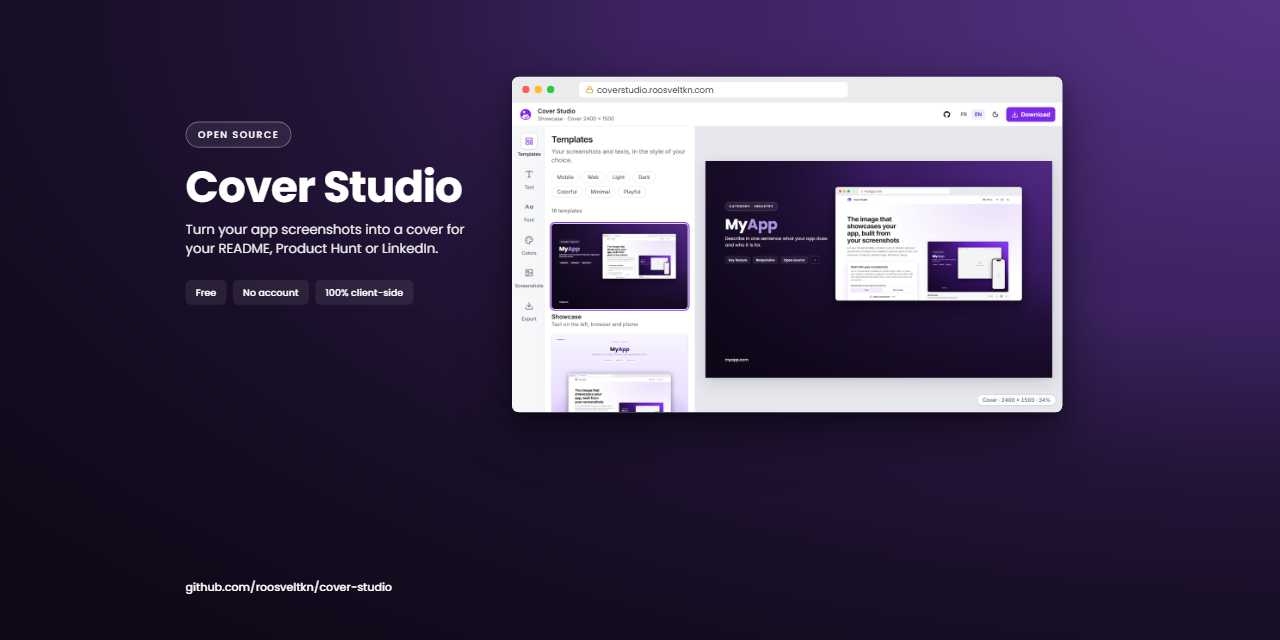
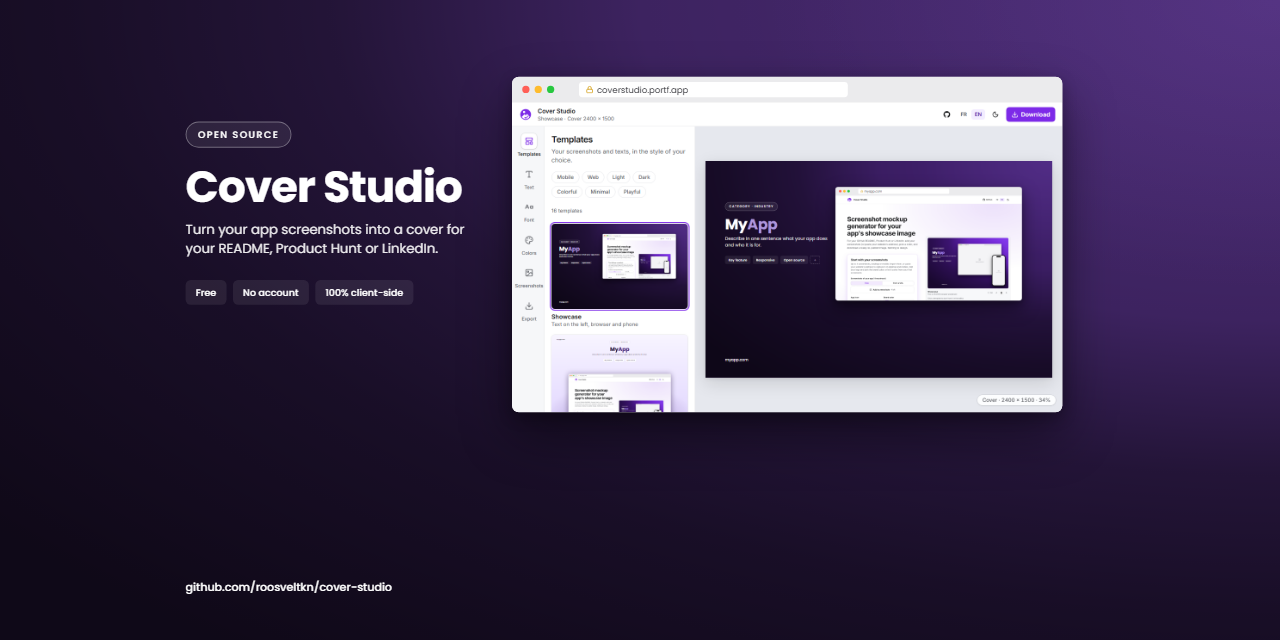
chore: move the site to coverstudio.portf.app
Cover Studio was born for portf.app and now lives on coverstudio.portf.app;
coverstudio.roosveltkn.com redirects there permanently (308, set on the
Vercel domain). Update the README link, the docs, the address shown in the
generated visuals, and regenerate them (SEO pages, README cover and demo).

diff --git a/content/pages/github-social-preview.en.ts b/content/pages/github-social-preview.en.ts
@@ -34,7 +34,7 @@ const content: PageContent = {
         },
         {
           type: "p",
-          text: "Cover Studio's GitHub format is exactly 1280 × 640. For reference, the social preview of [our own repository](https://github.com/roosveltkn/cover-studio), made with this tool, weighs 628 KB: comfortably under the limit. Keep the default 1× export; the 2× option doubles the pixels and can push the file past 1 MB.",
+          text: "Cover Studio's GitHub format is exactly 1280 × 640. For reference, the social preview of [our own repository](https://github.com/roosveltkn/cover-studio), made with this tool, weighs 627 KB: comfortably under the limit. Keep the default 1× export; the 2× option doubles the pixels and can push the file past 1 MB.",
         },
       ],
     },

diff --git a/docs/SEO.md b/docs/SEO.md
@@ -10,8 +10,13 @@ project, then GitHub stars. The main KPI is the number of exports per entry page
 
 - GA4 (`NEXT_PUBLIC_GA_ID`, set in production) records the session's entry page (Landing,
   Use-case page, Feature page, Guide, Comparison page) and attaches it to the export event.
-- Google Search Console (property on the subdomain, plus a domain property on `roosveltkn.com`)
-  and Bing Webmaster Tools (imported from GSC) give queries, impressions and positions.
+- Google Search Console (property on `coverstudio.portf.app`) and Bing Webmaster Tools give
+  queries, impressions and positions.
+
+The site lives on `coverstudio.portf.app` since 2026-10-15. The former address,
+`coverstudio.roosveltkn.com`, redirects permanently (308, set on the Vercel domain) to the same
+path; keep that redirect and its DNS record for at least a year, and move the Search Console
+history with the Change of Address tool.
 
 ## Personas
 

diff --git a/README.md b/README.md
@@ -7,7 +7,7 @@
 **Turn your app screenshots into a cover for your README, Product Hunt or LinkedIn.**
 Free, open source and 100% client-side.
 
-[**Try it**](https://coverstudio.roosveltkn.com/en) · [Report a bug](https://github.com/roosveltkn/cover-studio/issues) · [Contribute](./CONTRIBUTING.md)
+[**Try it**](https://coverstudio.portf.app/en) · [Report a bug](https://github.com/roosveltkn/cover-studio/issues) · [Contribute](./CONTRIBUTING.md)
 
 [![Star on GitHub](https://img.shields.io/github/stars/roosveltkn/cover-studio?style=social)](https://github.com/roosveltkn/cover-studio)
 [![License: MIT](https://img.shields.io/badge/License-MIT-yellow.svg)](./LICENSE)

diff --git a/docs/SPECS.md b/docs/SPECS.md
@@ -353,7 +353,7 @@ keys: see [CONTRIBUTING.md](../CONTRIBUTING.md#adding-a-template).
 
 ## 15. Open questions
 
-- ~~Project name and domain~~: Cover Studio, coverstudio.roosveltkn.com
+- ~~Project name and domain~~: Cover Studio, coverstudio.portf.app
 - Template font (to pick among free fonts close to the reference covers)
 - Animated screenshots (GIF): excluded from V1
 - App logo in the layout: not planned in V1; to be decided (an app icon has since been added)
